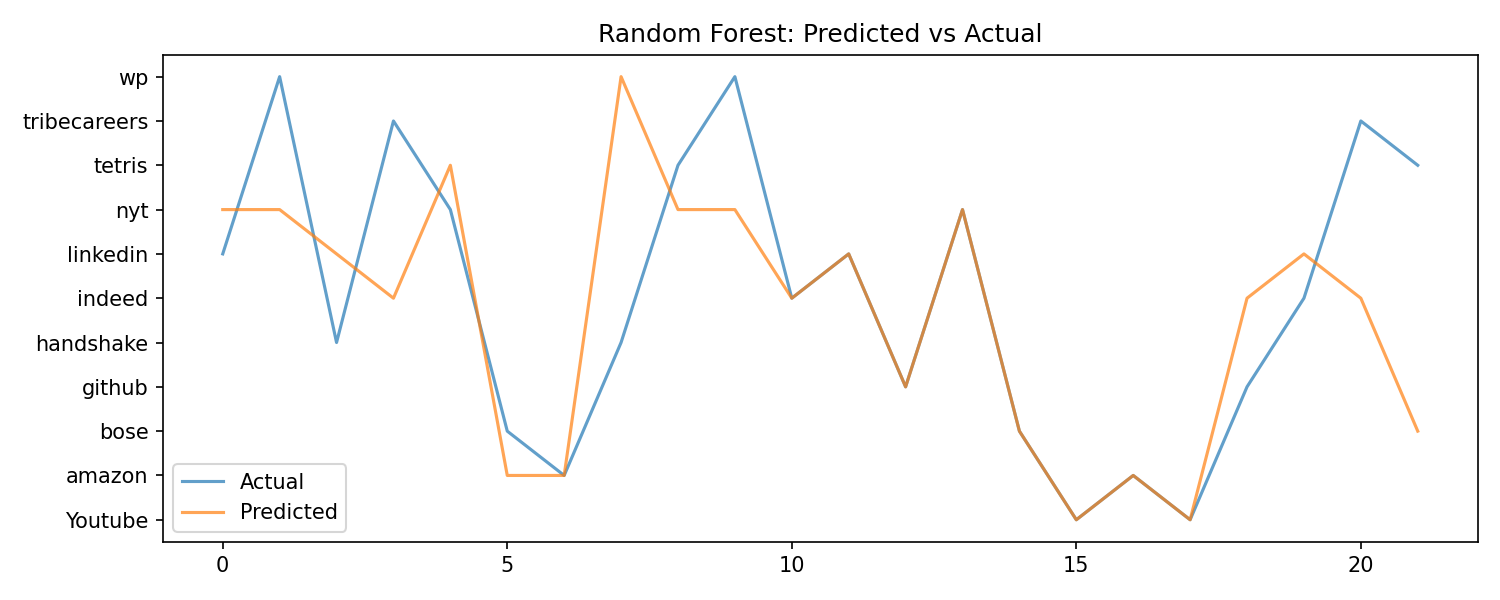
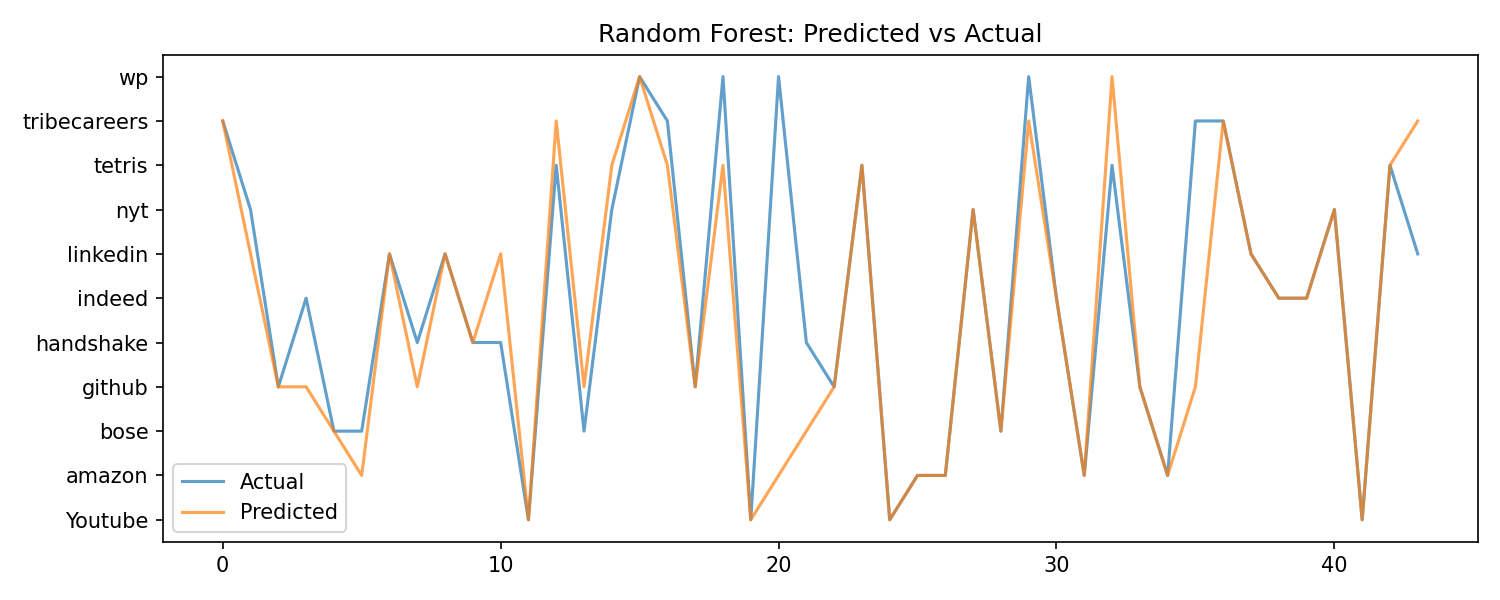
Added final powerpoint.

diff --git a/src/train_models.py b/src/train_models.py
@@ -52,6 +52,7 @@ fig, axes = plt.subplots(1, 2, figsize = (12, 5))
 for ax, preds, title in zip(axes, [y_pred_lr, y_pred_test], ["Logistic Regression", "Random Forest"]):
     ConfusionMatrixDisplay.from_predictions(y_test, preds, ax = ax, colorbar = False)
     ax.set_title(title)
+    ax.tick_params(axis='x', labelrotation=90)
 plt.tight_layout()
 plt.savefig("figures/confusion_matrices.png", dpi = 150, bbox_inches = 'tight')
 